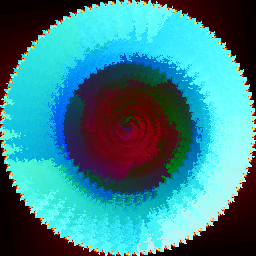
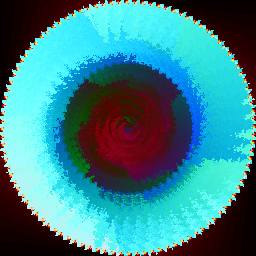
Rotation direction (#324)

diff --git a/src/computer.rs b/src/computer.rs
@@ -144,7 +144,7 @@ impl Computer {
       Command::Operation(operation) => self.operation = operation,
       Command::Rotate(turns) => self
         .transform
-        .append_rotation_mut(&UnitComplex::from_angle(turns * f32::consts::TAU)),
+        .append_rotation_mut(&UnitComplex::from_angle(-turns * f32::consts::TAU)),
       Command::Scale(scaling) => {
         self.transform.append_scaling_mut(scaling);
       }
